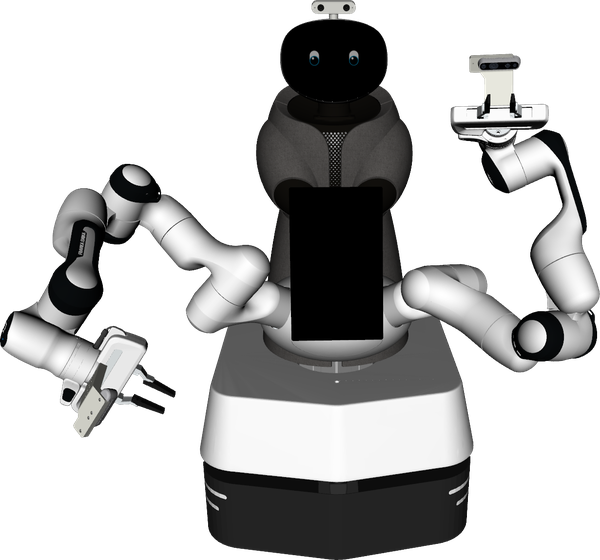
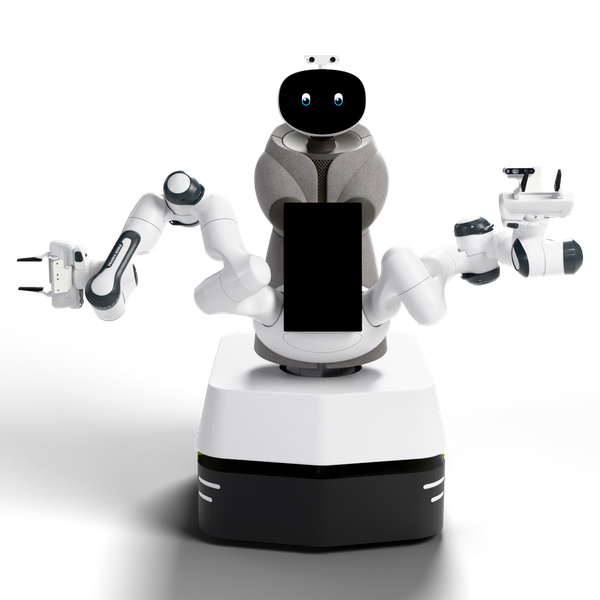
Make the README image a render, from a named pose
* Problem: the README showed an RViz screenshot, and the pose behind it lived nowhere, so it could
  not be made again for a changed model.
* Impact: a `readme` pose (left wrist camera looking at the viewer, right gripper held out
  sideways) joins the presets, and garmi_description/model.png is its render, 600 x 600, with the
  wrist cameras on the offset hole pair of the model this release ships.
* Verification: the preset re-renders the image to within the denoiser's noise; ruff clean.

diff --git a/tools/render/render.py b/tools/render/render.py
@@ -239,6 +239,10 @@ def parse_visual(element: ET.Element, colours: dict, urdf: Path) -> Visual:
 ARM_READY = (0.0, -math.pi / 4, 0.0, -3 * math.pi / 4, 0.0, math.pi / 2, math.pi / 4)
 # Garmi's driving posture, left arm: folded back over the shoulder, above the base.
 ARM_TRAVEL = (-2.32, 1.17, 0.33, -0.68, 2.63, 3.49, -1.5)
+# The README image's pose, seen from the front (--camera azimuth=0): the left hand raised, its
+# wrist camera looking at the viewer; the right gripper held out sideways, its length in view.
+README_LEFT = (0.068, -1.756, 0.298, -2.559, 1.362, 3.911, 0.681)
+README_RIGHT = (-0.765, -1.401, -1.03, -2.55, -0.106, 4.348, -1.361)
 
 
 def arm(side: str, values: tuple[float, ...]) -> dict[str, float]:
@@ -260,6 +264,12 @@ POSES = {
         "right_fr3_finger_joint1": 0.04,
     },
     "travel": {**arm("left", ARM_TRAVEL), **arm("right", mirrored(ARM_TRAVEL))},
+    "readme": {
+        **arm("left", README_LEFT),
+        **arm("right", README_RIGHT),
+        "left_fr3_finger_joint1": 0.04,
+        "right_fr3_finger_joint1": 0.04,
+    },
 }
 
 

diff --git a/tools/render/README.md b/tools/render/README.md
@@ -57,6 +57,13 @@ times slower; lower `--samples` or `--resolution` for drafts. `--help` lists eve
   keyframe.
 - `travel`: both arms folded back over the shoulders, above the base, Garmi's driving posture
   (the right arm mirrors the left).
+- `readme`: the left hand raised, its wrist camera looking at the viewer, the right gripper held
+  out sideways; seen from the front, it makes the repository's README image:
+
+  ```bash
+  uv run tools/render/render.py --pose readme --camera azimuth=0 --transparent \
+      --resolution 1200x1200 -o model.png   # then cropped and scaled to 600 px wide
+  ```
 
 ## Views
 

diff --git a/CHANGELOG.md b/CHANGELOG.md
@@ -12,6 +12,10 @@ adheres to [Semantic Versioning](https://semver.org/spec/v2.0.0.html).
   physically based materials from the model's own colours and a transparent background on request;
   `uv run` is the only thing to install.
 
+### Changed
+- **The README image is a render** — `garmi_description/model.png` is now path-traced by the render
+  tool in its `readme` pose instead of an RViz screenshot.
+
 ## [0.3.2] - 2026-10-21
 
 The head turns and nods the way the real one does.
